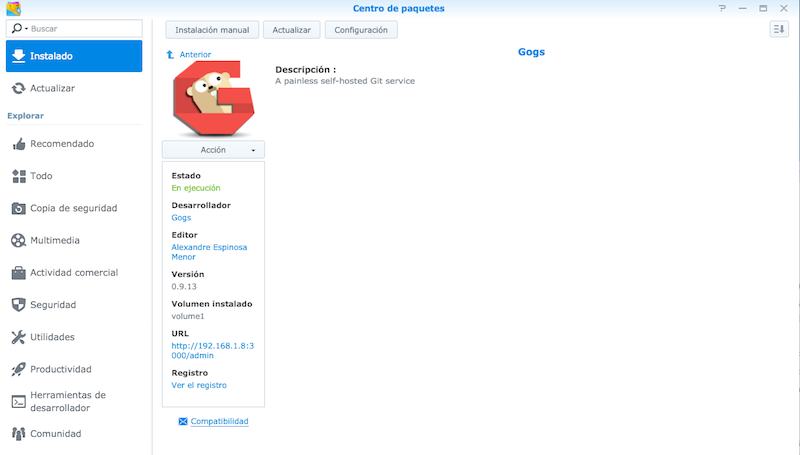
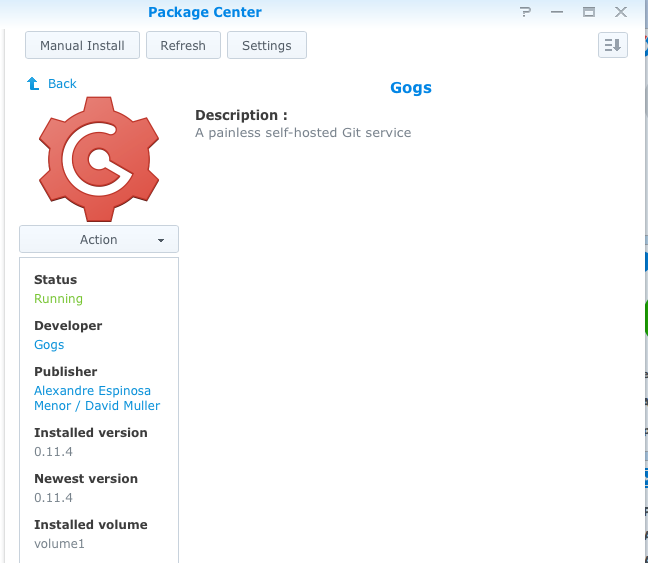
Fix #2

diff --git a/README.md b/README.md
@@ -1,6 +1,6 @@
-# gogs-spk
+# gogs-synology
 
-[Gogs](https://gogs.io) (Go Git Service) SPK package ([Synology PacKages](https://www.synology.com/en-us/dsm/app_packages))
+[Gogs](https://gogs.io) (Go Git Service) SPK package ([Synology Packages](https://www.synology.com/en-us/dsm/app_packages))
 
 Install Gogs into a Synology NAS.
 
@@ -8,7 +8,7 @@ Install Gogs into a Synology NAS.
 
 <sub>this package, to see Gogs requirements check https://gogs.io</sub>
 
-* armv7 (Tested only with DS213j, Marvell Armada 370)
+* armv7 (DS213j, DS211j, Marvell Armada 370) 
 * intel Atom D2700 (RS2414rp+)
 * intel Atom CE5335 (DS214 play)
 * MariaDB, SQLite
@@ -43,10 +43,7 @@ GOOS=linux GOARCH=arm GOARM=7 go get -u github.com/gogits/gogs
 
 ![Install](screenshots/install.png)
 
-![Stopping](screenshots/stopping.png)
-
-![Desktop icon](screenshots/icon.png)
-
+![Install](screenshots/started.png)
 
 Gogs screenshots
 https://github.com/gogits/gogs
@@ -55,5 +52,6 @@ https://github.com/gogits/gogs
 ## ToDo
 
 - Don't force to use Git Server and MariaDB (PostgreSQL? Gogs ARM version haven't Sqlite/TiDB)
+- Create gogs db on MySQL on first installation
 - Support to archs (and DBs)
 - Don't use **root** user and create and use **gogs** user, if possible
